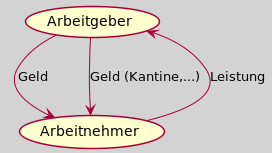
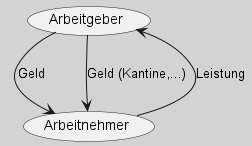
generate docs

Changed region(s): [[0.0278, 0.0274, 0.9722, 0.9863], [0.6389, 0.274, 0.6667, 0.3014], [0.6111, 0.2466, 0.6389, 0.274]]

diff --git a/apoll/index.html b/apoll/index.html
@@ -4,122 +4,122 @@
 <meta charset="UTF-8">
 <meta http-equiv="X-UA-Compatible" content="IE=edge">
 <meta name="viewport" content="width=device-width, initial-scale=1.0">
-<meta name="generator" content="Asciidoctor 2.0.17">
+<meta name="generator" content="Asciidoctor 2.0.18">
 <meta name="author" content="Thomas Spindler">
 <title>Wirtschaft und Recht Apoll</title>
 <style>
-/* Asciidoctor default stylesheet | MIT License | https://asciidoctor.org */
-
-@import url(//fonts.googleapis.com/css?family=Noto+Sans);
-@import url(https://cdn.jsdelivr.net/gh/asciidoctor/asciidoctor@2.0/data/stylesheets/asciidoctor-default.css); /* Default asciidoc style framework - important */
-
-/* CUSTOMISATIONS */
-/* Change the values in root for quick customisation. If you want even more fine grain... venture further. */
-:root{
---maincolor:#282c34;
---primarycolor:#f39c12;
---secondarycolor:#03a9f4;
---tertiarycolor:#4db6ac;
---sidebarbackground:#21252b;
---linkcolor:#f44336;
---linkcoloralternate:#ff9800;
---white:#FFFFFF;
-}
-
-/* custom added styles */
-.listingblock > .content > pre{
-  background: var(--sidebarbackground);
-  color: var(--white);
-}
-
-/* Text styles */
-body{font-family: "Noto Sans",sans-serif;background-color: var(--maincolor);color:var(--white);}
-
-h1{color:var(--primarycolor) !important;font-family:"Noto Sans",sans-serif;}
-h2,h3,h4,h5,h6{color:var(--secondarycolor) !important;font-family:"Noto Sans",sans-serif;}
-.title{color:var(--white) !important;font-family:"Noto Sans",sans-serif;font-style: normal; font-weight: normal;}
-p{font-family: "Noto Sans",sans-serif ! important}
-#toc.toc2 a:link{color:var(--linkcolor);}
-blockquote{color:var(--tertiarycolor) !important}
-.quoteblock{color:var(--white)}
-code{color:var(--linkcoloralternate);background-color: var(--sidebarbackground) !important}
-
-
-/* Table styles */
-th{background-color: var(--maincolor);color:var(--white) !important;}
-td{background-color: var(--maincolor);color: var(--linkcoloralternate) !important}
-
-
-#toc.toc2{background-color:var(--sidebarbackground);}
-#toctitle{color:var(--white);}
-
-/* Responsiveness fixes */
-video {
-  max-width: 100%;
-}
-
-@media all and (max-width: 600px) {
-  table {
-    width: 55vw!important;
-    font-size: 3vw;
-  }
-}
-
-.exampleblock > .content {
-  background-color: var(--maincolor);
-}
-
-a {
-  color: var(--secondarycolor);
-}
-
-.admonitionblock td.icon .icon-tip::before {
-  text-shadow: none;
-  color: var(--white);
-}
-.admonitionblock td.icon .icon-note::before {
-  color: var(--tertiarycolor);
-}
-.admonitionblock td.icon .icon-important::before {
-  color: var(--linkcolor);
-}
-/*.admonitionblock td.icon .icon-caution::before {
-  color: var(--linkcoloralternate);
-}*/
-.admonitionblock td.icon .icon-warning::before {
-  color: var(--primarycolor);
-}
-
-#preamble > .sectionbody > .paragraph:first-of-type p {
-  color: var(--white);
-}
-
-.quoteblock blockquote::before {
-  color: var(--primarycolor);
-}
-.quoteblock .attribution cite, .verseblock .attribution cite {
-  color: var(--white);
-}
-.verseblock pre {
-  color: var(--white);
-}
-.quoteblock blockquote, .quoteblock blockquote p {
-  color: var(--white);
-}
-
-.sidebarblock {
-  background: var(--sidebarbackground);
-}
-.literalblock pre, .listingblock pre:not(.highlight), .listingblock pre[class="highlight"], .listingblock pre[class^="highlight "], .listingblock pre.CodeRay, .listingblock pre.prettyprint {
-  background: var(--sidebarbackground);
-  color: var(--white);
-}
-
-#header .details {
-  color: var(--white);
-}
-#header .details span.email a {
-  color: var(--linkcoloralternate);
+/* Asciidoctor default stylesheet | MIT License | https://asciidoctor.org */
+
+@import url(//fonts.googleapis.com/css?family=Noto+Sans);
+@import url(https://cdn.jsdelivr.net/gh/asciidoctor/asciidoctor@2.0/data/stylesheets/asciidoctor-default.css); /* Default asciidoc style framework - important */
+
+/* CUSTOMISATIONS */
+/* Change the values in root for quick customisation. If you want even more fine grain... venture further. */
+:root{
+--maincolor:#282c34;
+--primarycolor:#f39c12;
+--secondarycolor:#03a9f4;
+--tertiarycolor:#4db6ac;
+--sidebarbackground:#21252b;
+--linkcolor:#f44336;
+--linkcoloralternate:#ff9800;
+--white:#FFFFFF;
+}
+
+/* custom added styles */
+.listingblock > .content > pre{
+  background: var(--sidebarbackground);
+  color: var(--white);
+}
+
+/* Text styles */
+body{font-family: "Noto Sans",sans-serif;background-color: var(--maincolor);color:var(--white);}
+
+h1{color:var(--primarycolor) !important;font-family:"Noto Sans",sans-serif;}
+h2,h3,h4,h5,h6{color:var(--secondarycolor) !important;font-family:"Noto Sans",sans-serif;}
+.title{color:var(--white) !important;font-family:"Noto Sans",sans-serif;font-style: normal; font-weight: normal;}
+p{font-family: "Noto Sans",sans-serif ! important}
+#toc.toc2 a:link{color:var(--linkcolor);}
+blockquote{color:var(--tertiarycolor) !important}
+.quoteblock{color:var(--white)}
+code{color:var(--linkcoloralternate);background-color: var(--sidebarbackground) !important}
+
+
+/* Table styles */
+th{background-color: var(--maincolor);color:var(--white) !important;}
+td{background-color: var(--maincolor);color: var(--linkcoloralternate) !important}
+
+
+#toc.toc2{background-color:var(--sidebarbackground);}
+#toctitle{color:var(--white);}
+
+/* Responsiveness fixes */
+video {
+  max-width: 100%;
+}
+
+@media all and (max-width: 600px) {
+  table {
+    width: 55vw!important;
+    font-size: 3vw;
+  }
+}
+
+.exampleblock > .content {
+  background-color: var(--maincolor);
+}
+
+a {
+  color: var(--secondarycolor);
+}
+
+.admonitionblock td.icon .icon-tip::before {
+  text-shadow: none;
+  color: var(--white);
+}
+.admonitionblock td.icon .icon-note::before {
+  color: var(--tertiarycolor);
+}
+.admonitionblock td.icon .icon-important::before {
+  color: var(--linkcolor);
+}
+/*.admonitionblock td.icon .icon-caution::before {
+  color: var(--linkcoloralternate);
+}*/
+.admonitionblock td.icon .icon-warning::before {
+  color: var(--primarycolor);
+}
+
+#preamble > .sectionbody > .paragraph:first-of-type p {
+  color: var(--white);
+}
+
+.quoteblock blockquote::before {
+  color: var(--primarycolor);
+}
+.quoteblock .attribution cite, .verseblock .attribution cite {
+  color: var(--white);
+}
+.verseblock pre {
+  color: var(--white);
+}
+.quoteblock blockquote, .quoteblock blockquote p {
+  color: var(--white);
+}
+
+.sidebarblock {
+  background: var(--sidebarbackground);
+}
+.literalblock pre, .listingblock pre:not(.highlight), .listingblock pre[class="highlight"], .listingblock pre[class^="highlight "], .listingblock pre.CodeRay, .listingblock pre.prettyprint {
+  background: var(--sidebarbackground);
+  color: var(--white);
+}
+
+#header .details {
+  color: var(--white);
+}
+#header .details span.email a {
+  color: var(--linkcoloralternate);
 }
 </style>
 <link rel="stylesheet" href="https://cdnjs.cloudflare.com/ajax/libs/font-awesome/4.7.0/css/font-awesome.min.css">
@@ -130,7 +130,7 @@ a {
 <div class="details">
 <span id="author" class="author">Thomas Spindler</span><br>
 <span id="revnumber">version 1.0.0,</span>
-<span id="revdate">2022-10-07</span>
+<span id="revdate">2022-11-24</span>
 <br><span id="revremark">WRWI</span>
 </div>
 <div id="toc" class="toc2">
@@ -156,6 +156,9 @@ a {
 <li><a href="#_internationale_arbeitsteilung">3.3. internationale Arbeitsteilung</a></li>
 </ul>
 </li>
+<li><a href="#_ebit">4. EBIT</a></li>
+<li><a href="#_betrieb">5. Betrieb:</a></li>
+<li><a href="#_wirtschaft_arbeitsauftrag">6. Wirtschaft Arbeitsauftrag:</a></li>
 </ul>
 </div>
 </div>
@@ -218,7 +221,7 @@ Unternehmen &#8592;&#8594; Haushalt</p>
 </div>
 <div class="imageblock">
 <div class="content">
-<img src="images/ag-an.png" alt="ag an" width="272" height="153">
+<img src="images/ag-an.png" alt="ag an" width="252" height="146">
 </div>
 </div>
 <div class="ulist">
@@ -311,7 +314,7 @@ Unternehmen &#8592;&#8594; Haushalt</p>
 </div>
 <div class="imageblock">
 <div class="content">
-<img src="images/gewinn.png" alt="gewinn" width="778" height="131">
+<img src="images/gewinn.png" alt="gewinn" width="723" height="128">
 </div>
 </div>
 <div class="paragraph">
@@ -404,11 +407,77 @@ Unternehmen &#8592;&#8594; Haushalt</p>
 </div>
 </div>
 </div>
+<div class="sect1">
+<h2 id="_ebit">4. EBIT</h2>
+<div class="sectionbody">
+<div class="paragraph">
+<p>Earnings<br>
+Before<br>
+intereset &amp; (Zinsen)<br>
+Tax</p>
+</div>
+<div class="paragraph">
+<p>Depreciation<br>
+Amortisation</p>
+</div>
+</div>
+</div>
+<div class="sect1">
+<h2 id="_betrieb">5. Betrieb:</h2>
+<div class="sectionbody">
+<div class="paragraph">
+<p>Kombination der Produktionsfaktoren</p>
+</div>
+<div class="ulist">
+<ul>
+<li>
+<p>Arbeit (Körperlicht, Geistig)</p>
+</li>
+<li>
+<p>Boden</p>
+</li>
+<li>
+<p>Kapital</p>
+</li>
+<li>
+<p>Know How</p>
+</li>
+</ul>
+</div>
+</div>
+</div>
+<div class="sect1">
+<h2 id="_wirtschaft_arbeitsauftrag">6. Wirtschaft Arbeitsauftrag:</h2>
+<div class="sectionbody">
+<div class="paragraph">
+<p>Produktionsfaktoren:</p>
+</div>
+<div class="ulist">
+<ul>
+<li>
+<p>Arbeit</p>
+</li>
+<li>
+<p>Boden</p>
+</li>
+<li>
+<p>Kapital</p>
+</li>
+<li>
+<p>Wissen</p>
+</li>
+</ul>
+</div>
+<div class="paragraph">
+<p>Die meisten haben die höchste Priorität, heute und auch in Zukunft, denn nichts würde funktionieren ohne Arbeit, Kapital und Wissen. Boden ist teilweise unnötig, wenn man ein digitales Projekt hat oder eine Verkaufsmethode verwendet, wo man das Produkt nicht einmal gesehen hat.</p>
+</div>
+</div>
+</div>
 </div>
 <div id="footer">
 <div id="footer-text">
 Version 1.0.0<br>
-Last updated 2022-10-07 08:35:51 +0200
+Last updated 2022-11-24 16:30:50 +0100
 </div>
 </div>
 </body>
